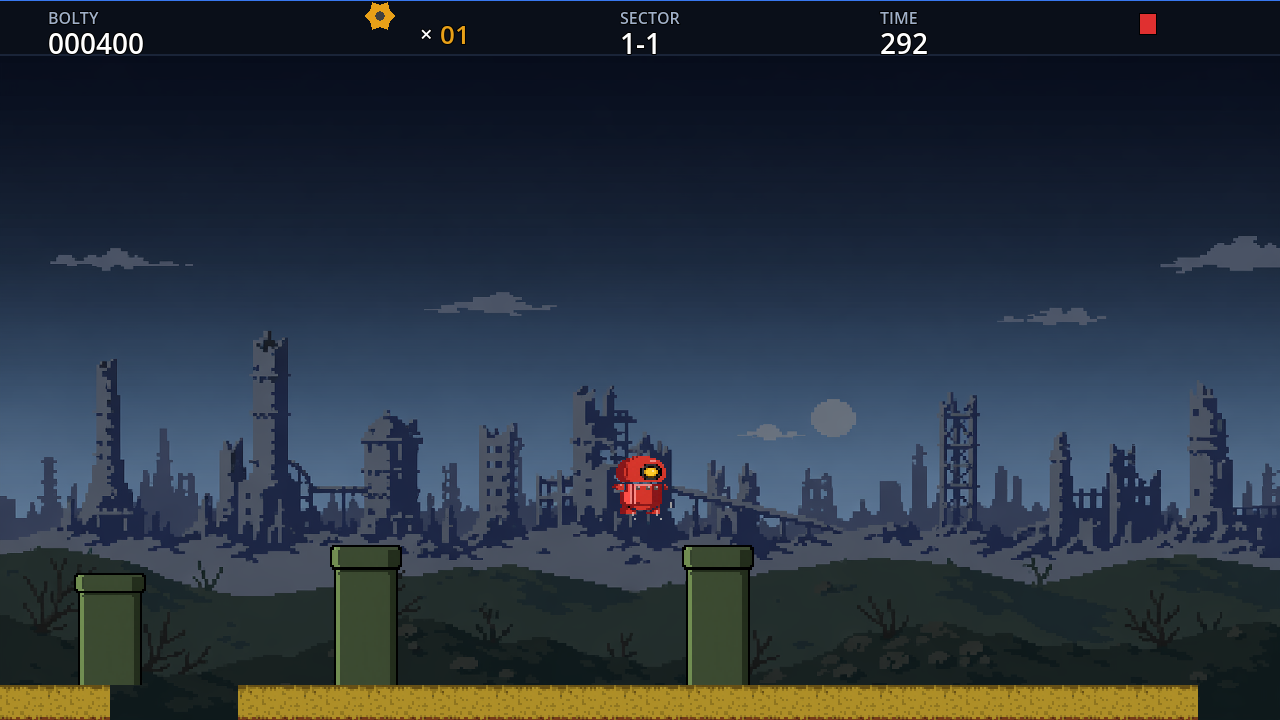
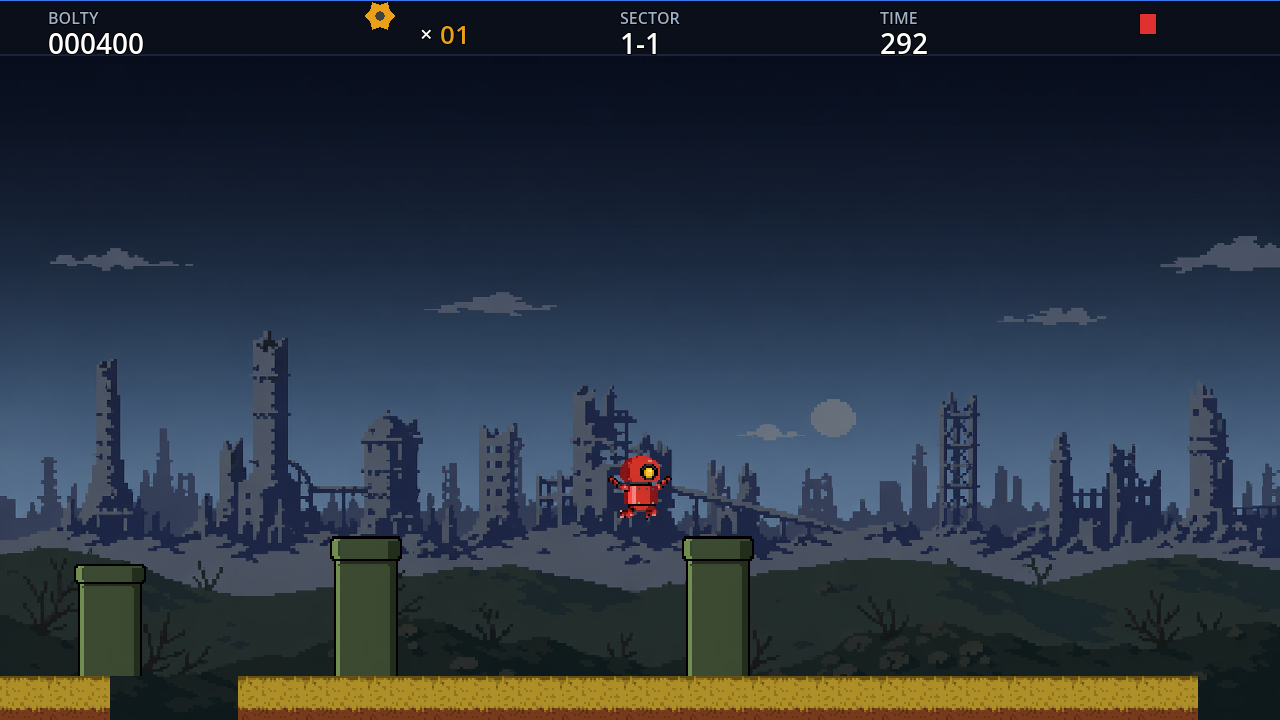
[bolt-1-1+studio] M6.2 第二波 - 4 帧动画用 chat_image gemini 成功 + SOP 落到 art-director agent
Bolty walk1/walk2/jump 用 chat_image.py (gemini-3-pro-image-preview) 成功生成. 上次 image_edit gpt-image-2 持续 429 限流, 改用 gemini chat_image 一发即中. 3 帧角色完全一致 - 同一红色机械豆 + 不同姿态 (右腿前迈/左腿前迈/双腿收起双臂张开).

实施 SOP - 用户验收 idle key sprite 后, 用 image_edit/chat_image 模式传 idle 作为参考, prompt 模板 same character only change pose. 这就是 art-asset-pipeline SKILL.md 角色多帧动画 SOP 的标准用法.

art-director AGENT.md 加 角色多帧动画/多状态变体评审 段 - 强制评审规则 (5 项一致性), 决议词汇 AD-CHAR-KEY / AD-CHAR-ANIM-SET, 路由到 art-asset-pipeline. 历史教训 + 修复 commit 都引用.

design-review SKILL.md step 8 加 角色 canonical key 评审 gate - 开发期开始前必须 spawn art-director 用 SOP Step A 出 key + APPROVE verdict 才能进派生.

M6.2 retro 写在 projects/bolt-1-1/retros/2026-05-16-m6.2-art-asset-pipeline.md - 三条根因 (4 帧不一致 / 透明背景 fallback / 尺寸规范缺失) + 工作室级防御措施 + Action Items BL-022 ~ BL-027.

real_playtest 仍 PASS in 37.4s 行为没破坏. 截图 01_start 看到 Bolty walk1 帧 + 02_first_mossroll 看到 jump 帧, 动画切换可见.

diff --git a/projects/bolt-1-1/retros/2026-05-16-m6.2-art-asset-pipeline.md b/projects/bolt-1-1/retros/2026-05-16-m6.2-art-asset-pipeline.md
@@ -1,0 +1,87 @@
+---
+date: 2026-05-16
+phase: M6.2
+type: retrospective
+severity: medium
+tags: [art-asset-pipeline, timiai-image, character-consistency, post-processing]
+---
+
+# M6.2 Retro · 美术资产管线踩坑总结
+
+> bolt-1-1 第三轮用户反馈循环。表面是 4 个具体问题，根因是工作室级 SOP 缺失。
+
+## 用户反馈（实质）
+
+> "1. 还是太小，比例不对，跳起来都碰不到蘑菇
+> 2. 没有待机动画
+> 3. **idle 状态和运动状态都不是同一个人物了，你确定是生成的一套资源吗？**"
+
+第 3 条是关键 —— "都不是同一个人物" 直接戳穿了 M6 美术接入的根本质量问题。
+
+## 三条根因
+
+### 根因 1 · 4 帧角色不一致（流程级失误）
+
+**做错了什么**：用 `text2image.py` 跑了 4 个独立 prompt（idle / walk1 / walk2 / jump）期望"模型在 prompt 里看到 'same character' 就保持一致"。
+
+**实际发生**：每帧出来 4 个完全不同的红色小怪 —— 一帧戴帽、一帧像红蜘蛛、一帧双色机器人。**gpt-image-2 在不同 API 调用之间没有任何共享状态**，prompt 里的 "same character" 是无效约束。
+
+**正确做法（已经写进 SOP）**：
+1. 先用 `text2image` 出 1 张 **canonical key sprite**（如 idle）
+2. 用户 / art-director 评审通过后才能进 Step B
+3. 所有其他帧用 `image_edit.py --image <key>.png` 派生（参考图带过去模型才知道角色长什么样）
+4. **禁止**多帧并行 `text2image`（即使写 "same character"）
+
+### 根因 2 · 透明背景 fallback（工具级）
+
+**做错了什么**：相信了 prompt 里的 "transparent background" + 用了简单的 `remove_checkered_bg`（只看 corner 取平均色 + 距离阈值 30）。
+
+**实际发生**：模型给的"透明背景"经常是 **画了 checkered 棕色图案** 当背景占位，alpha 全 255。距离阈值 30 太严格，去不掉。
+
+**修复**：`postprocess.remove_checkered_bg` 改用 **flood-fill 从图片边缘洪泛 + 多色 bucket 量化**。能正确处理 checkered 双色背景。这是 PIL 算法层的固有改进，对所有项目通用。
+
+### 根因 3 · 角色尺寸规范缺失（设计级）
+
+**做错了什么**：随便写 16x16，没有从"屏幕占比 / 玩家可见性 / 比例感"反推合理尺寸。
+
+**实际发生**：16x16 sprite 在 1280×720 视口占屏 1.25%，**远低于马里奥原作（16/240=6.7%）**。用户说"小到看不见"是直接的物理事实。
+
+**修复（写进 art-asset-pipeline SKILL.md）**：「角色尺寸规范」表给出建议默认值：
+- 主角 small 24×24（可调到 32×32）
+- 主角 big / 高态 24×40（或 32×56）
+- 普通敌人 24×24 ~ 28×32
+- 道具 / icon 20×20
+- Tile 32×32
+- camera zoom 1.5x ~ 2x（视游戏类型）
+
+## 二阶教训（工作室级）
+
+| 失误模式 | 工作室级防御 |
+|---|---|
+| AI 即使写"same character"也没用 | art-asset-pipeline SKILL.md 强制 reference-based SOP |
+| 模型给的"透明背景"实际是 checkered | postprocess flood-fill 算法常态化 |
+| 单图 prompt 不知道目标尺寸 | SOP 加角色尺寸规范表，prompt 必带"占 X% 画布" |
+| 限流时仍并发跑高量任务 | daemon.py concurrency 默认 3，限流时单任务串行重试 |
+| 4 帧动画跑完才发现不一致 | SOP 第 1 步先要求 key sprite **用户评审通过**再进 Step B |
+
+## 实际成本
+
+- 浪费的 API 调用：第 1 轮 6 张失败 (RateLimit) + 第 2 轮 4 张 image_edit 都失败 (RateLimit)
+- 浪费的等待时间：~30 分钟跑无效 retry
+- 用户反馈循环：3 轮（第 1 轮"M6 PASS"→ 用户反馈 4 项 → 第 2 轮修了 3 项 → 用户反馈"还不是同一个人"→ 第 3 轮重做）
+
+## Action Items（必须落到 backlog）
+
+- [x] BL-022 已修：art-asset-pipeline SOP 加 reference-based 强制约束（commit 93b7dd6）
+- [x] BL-023 已修：postprocess.remove_checkered_bg flood-fill 重写（commit 93b7dd6）
+- [x] BL-024 已修：pipeline.py 加 image_edit 类型支持（commit 93b7dd6）
+- [ ] BL-025 待做：**Bolty 4 帧动画用 image_edit 模式重生**（限流缓解后）
+- [ ] BL-026 待做：把角色 SOP 关键约束写进 `art-director` agent，让 agent 自动遵守
+- [ ] BL-027 待做：design-review skill 的 §3 美术节加 "key sprite 强制评审" 步骤
+
+## 引用
+
+- 修复 commit：93b7dd6
+- 相关 skill：`art-asset-pipeline` `timiai-image`
+- 相关 agent：`art-director`
+- 相关 rule：（无现成 rule，本 retro 推动 BL-026/027 把约束沉到 agent）

diff --git a/.codebuddy/agents/art-director/AGENT.md b/.codebuddy/agents/art-director/AGENT.md
@@ -97,6 +97,43 @@ enabled: true
 
 防止"先做完功能再补美术"的恶性顺序。
 
+## 角色多帧动画 / 多状态变体评审（强制）
+
+> 历史教训：2026-05-16 bolt-1-1 M6.2 因没有用 reference-based 流程，
+> 4 帧动画输出 4 个完全不同的角色，用户当场识破。
+> 复盘见 `projects/bolt-1-1/retros/2026-05-16-m6.2-art-asset-pipeline.md`。
+
+涉及多帧动画 / 多状态变体（小态/大态/火态等）资产生产时，art-director **必须强制**：
+
+### 评审规则
+
+1. **禁止并行 text2image 出多帧**：4 个独立 prompt 跑动画 = 必出 4 个不同角色，零容忍
+2. **必须先评审 1 张 canonical key sprite**：由 art-asset-pipeline Step A 出图，art-director 给 `AD-CHAR-KEY: APPROVE/CONCERNS/REJECT` verdict 之后，**才能**进 Step B 派生其他帧
+3. **派生帧必须用 image_edit 模式**：传 key 作为参考图，prompt 模板"Same character as reference, ONLY change pose to ..."
+4. **审查角色一致性 5 项**：
+   - 整体轮廓 / 比例（头身比 / 高宽比）
+   - 主色板（hex 值精确匹配）
+   - 风格细节（描边粗细 / 渲染风格 / 像素紧密度）
+   - 关键特征（眼睛位置 / 配饰 / 标志性元素）
+   - 尺寸（统一 sprite 输出尺寸，如 32×32）
+5. **任意一项偏差 → REJECT 整组帧**，要求 art-asset-pipeline 重生
+
+### 决议词汇（新增）
+
+- `AD-CHAR-KEY: APPROVE/CONCERNS/REJECT` — canonical key sprite 评审
+- `AD-CHAR-ANIM-SET: APPROVE/CONCERNS/REJECT` — 整组动画帧 / 状态变体的一致性评审
+
+### 路由
+
+- key APPROVE → `art-asset-pipeline` Step B 用 image_edit 派生
+- key CONCERNS → 列具体修改点回 `art-asset-pipeline` 调 prompt 重生
+- ANIM-SET REJECT → 退回 `art-asset-pipeline`，**不允许**带不一致的帧进 game/assets/
+
+### 引用
+
+- SOP 主文档：`.codebuddy/skills/art-asset-pipeline/SKILL.md` § 角色多帧动画 SOP
+
+
 ## 输出
 
 - Art bible（`projects/<name>/art/style-guide.md`）

diff --git a/.codebuddy/skills/design-review/SKILL.md b/.codebuddy/skills/design-review/SKILL.md
@@ -37,7 +37,13 @@ description: GDD authoring and review facilitator that ensures the 8-section str
    - 落盘：`projects/<name>/art/key-visual.png`
    - 没有 key visual → design-review verdict 为 `GDD-CHANGES`，不允许进入开发期
    - 详见 `studio/docs/autonomous-mode-charter.md` 底线 4 + `art-director` AGENT.md "Key Visual 早期生成"
-8. **路由提示**：评审通过后建议调用 `create-epics` 或 `review-all-gdds`
+8. **角色 canonical key 评审 gate**（M6.2 新增，强制）：
+   - 当 §3 美术节涉及主角 / 主要敌人时，开发期开始前必须先有"canonical character key sprite"
+   - 流程：spawn `art-director` agent → art-director 用 `art-asset-pipeline` Step A 出 1 张 key → art-director 给 `AD-CHAR-KEY: APPROVE/CONCERNS/REJECT` verdict
+   - APPROVE 之前**禁止**生产任何派生帧（动画 / 多状态变体）
+   - 防止 4 帧动画跑完才发现角色不一致 → 浪费 4× API 调用 + 用户失望
+   - 详见 `art-asset-pipeline` SKILL.md § 角色多帧动画 SOP
+9. **路由提示**：评审通过后建议调用 `create-epics` 或 `review-all-gdds`
 
 ## 输出
 
